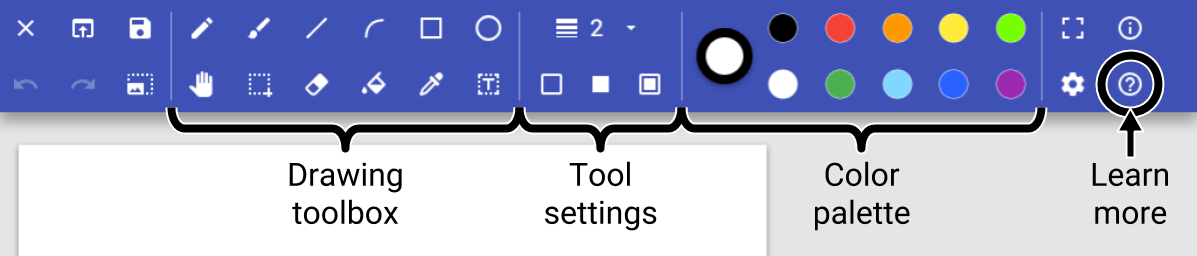
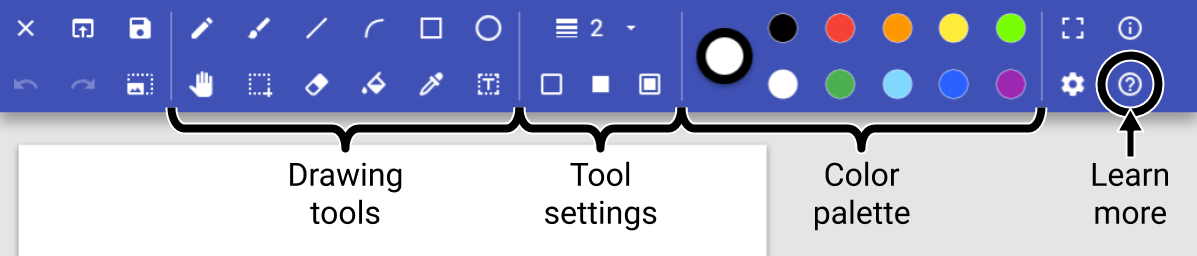
Tweak toolbar overview graphic and add it to the top of the help dialog as well

diff --git a/app/partials/dialogs/welcome.html b/app/partials/dialogs/welcome.html
@@ -7,7 +7,7 @@
 	</button>
 	Welcome to PaintZ!
 </h1>
-<img src="images/toolbar_overview.png" alt="screenshot of the PaintZ toolbar with the toolbox, tool settings, color pallette, and help icon highlighted" style="display: block; width: 100%;" />
+<img src="images/toolbar_overview.png" alt="screenshot of the PaintZ toolbar with the drawing tools, tool settings, color pallette, and help icon highlighted." style="display: block; width: 100%;" />
 <p>
 	Select the brush tool
 	<svg role="img" class="helpIcon welcomeIcon">
@@ -17,7 +17,7 @@
 	and start painting!
 </p>
 <p>
-	Use the toolbox to switch drawing tools and the color palette to switch colors.
+	Use the drawing tool buttons to switch drawing tools and the color palette to switch colors.
 </p>
 <p>
 	Click the

diff --git a/app/partials/dialogs/help.html b/app/partials/dialogs/help.html
@@ -9,6 +9,12 @@
 </h1>
 <table>
 	<tr>
+		<td colspan="2">
+			<img src="images/toolbar_overview.png" alt="screenshot of the PaintZ toolbar with the drawing tools, tool settings, color pallette, and help icon highlighted." style="display: block; width: 100%;" />
+		</td>
+	</tr>
+	<tr><td colspan="2">&nbsp;</td></tr>
+	<tr>
 		<th colspan="2">Document actions</th>
 	</tr>
 	<tr>
